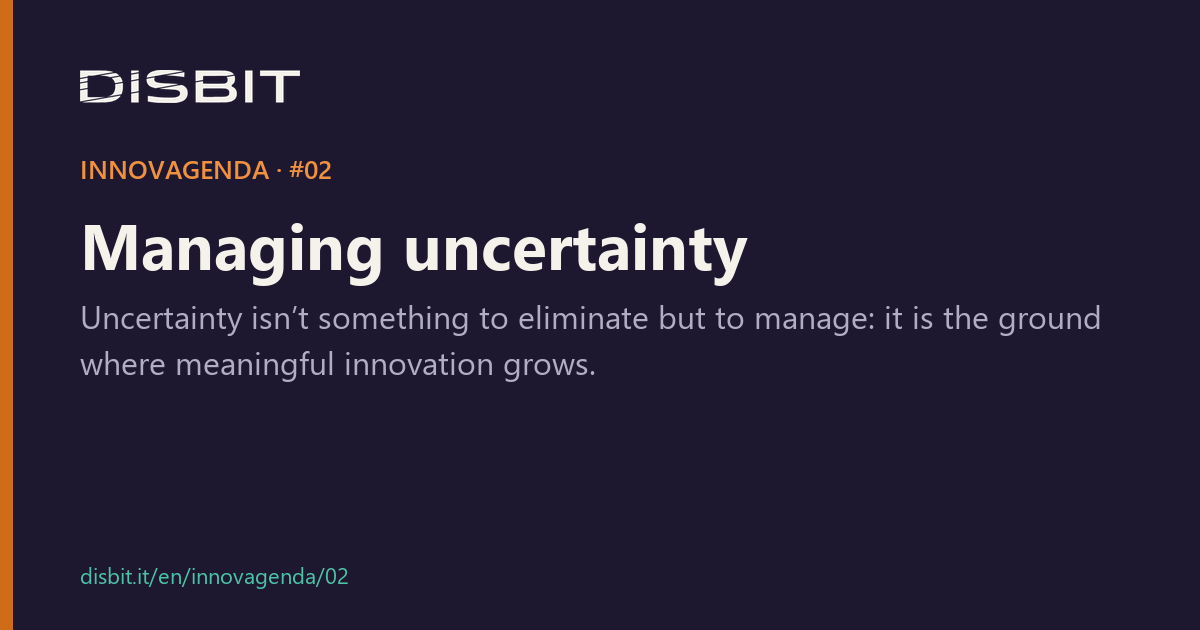
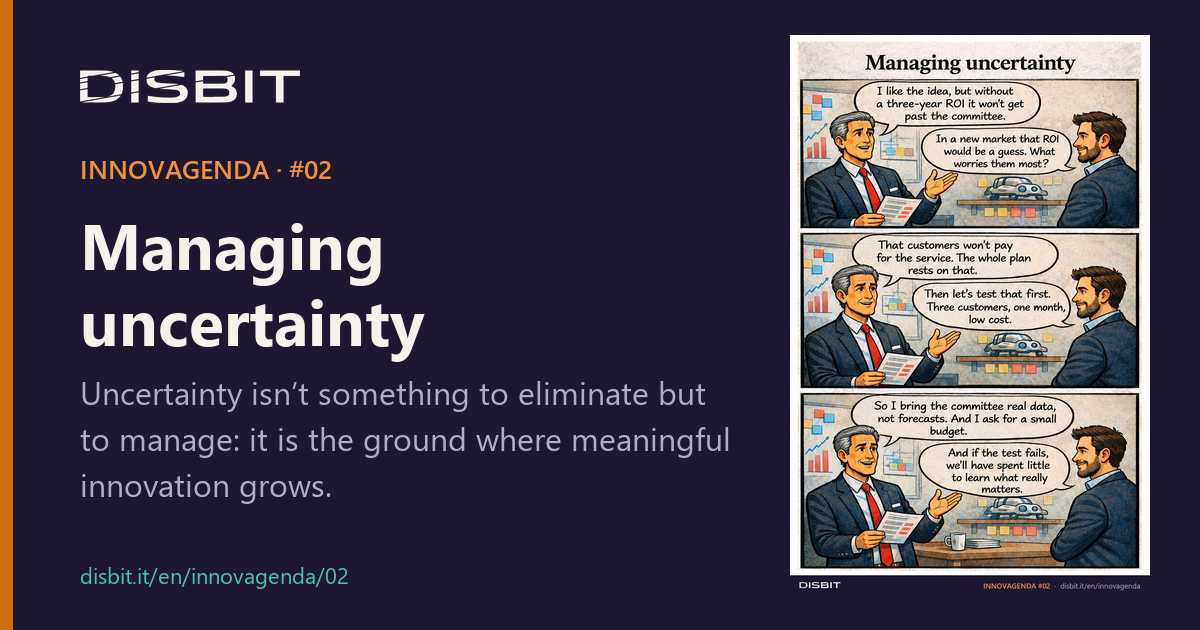
INNOVAGENDA inglese: 12 tavole firmate, anteprime sulle card e pagine aggiornate

Changed region(s): [[0.0617, 0.0302, 0.9558, 0.9349], [0.3392, 0.3619, 0.6167, 0.4524], [0.0617, 0.754, 0.2775, 0.8143]]

diff --git a/en/index.html b/en/index.html
@@ -358,6 +358,10 @@ main p b{font-weight:700;color:var(--ink)}
 .phase{grid-row:span 4}
 .phase h3.word{font-size:clamp(23px,2.2vw,29px);font-weight:800;margin:0 0 6px;letter-spacing:-.02em;line-height:1.1}
 .phase h3.word .ini{color:var(--orange);font-size:1.55em;line-height:.9;letter-spacing:-.03em}
+/* anteprima a fumetti nelle card INNOVAGENDA */
+.principle{overflow:hidden}
+.principle .pthumb{display:block;width:calc(100% + 36px);max-width:none;margin:-18px -18px 14px;aspect-ratio:640/278;height:auto;object-fit:cover;border-bottom:1px solid var(--line);transition:transform .3s}
+.principle:hover .pthumb,.principle:focus-visible .pthumb{transform:scale(1.03)}
 /* CONTATTI */
 .contact{background:var(--hero-bg);color:var(--hero-ink)}
 .contact .wrap{display:grid;grid-template-columns:1fr 1fr;gap:56px;align-items:start}
@@ -611,18 +615,18 @@ footer a{color:var(--hero-muted)}
       <p>12 principles for the strategic management of innovation, inspired by the ISO 56000 series. Not a checklist, but the management lens the DISBIT method applies to processes.</p>
     </div>
     <div class="principles">
-        <button class="principle" type="button" data-i="0" data-strip="/assets/innovagenda/en/DISBIT-INNOVAGENDA-01-value-realization.jpg"><span class="n">#01</span><h3>Value realization</h3><p>Value doesn’t come from the idea, but from putting it into practice.</p><span class="more">Read more →</span></button>
-        <button class="principle" type="button" data-i="1" data-strip="/assets/innovagenda/en/DISBIT-INNOVAGENDA-02-managing-uncertainty.jpg"><span class="n">#02</span><h3>Managing uncertainty</h3><p>Uncertainty isn’t something to eliminate but to manage: it is the ground where meaningful innovation grows.</p><span class="more">Read more →</span></button>
-        <button class="principle" type="button" data-i="2" data-strip="/assets/innovagenda/en/DISBIT-INNOVAGENDA-03-strategic-direction.jpg"><span class="n">#03</span><h3>Strategic direction</h3><p>Without strategic direction, innovation becomes scattered effort instead of a competitive lever.</p><span class="more">Read more →</span></button>
-        <button class="principle" type="button" data-i="3" data-strip="/assets/innovagenda/en/DISBIT-INNOVAGENDA-04-systems-approach.jpg"><span class="n">#04</span><h3>Systems approach</h3><p>Innovation becomes a real capability only when it stops being occasional.</p><span class="more">Read more →</span></button>
-        <button class="principle extra" type="button" data-i="4" data-strip="/assets/innovagenda/en/DISBIT-INNOVAGENDA-05-future-focused-leadership.jpg"><span class="n">#05</span><h3>Future-focused leadership</h3><p>Leadership doesn’t just protect stability: it sets the direction of change.</p><span class="more">Read more →</span></button>
-        <button class="principle extra" type="button" data-i="5" data-strip="/assets/innovagenda/en/DISBIT-INNOVAGENDA-06-innovation-culture.jpg"><span class="n">#06</span><h3>Innovation culture</h3><p>Culture decides what you are allowed to do when you innovate.</p><span class="more">Read more →</span></button>
-        <button class="principle extra" type="button" data-i="6" data-strip="/assets/innovagenda/en/DISBIT-INNOVAGENDA-07-exploiting-insights.jpg"><span class="n">#07</span><h3>Exploiting insights</h3><p>Insights turn information into choices: without them, you innovate blind.</p><span class="more">Read more →</span></button>
-        <button class="principle extra" type="button" data-i="7" data-strip="/assets/innovagenda/en/DISBIT-INNOVAGENDA-08-adaptability.jpg"><span class="n">#08</span><h3>Adaptability</h3><p>Adaptability is a designed capability, not an improvised reaction.</p><span class="more">Read more →</span></button>
-        <button class="principle extra" type="button" data-i="8" data-strip="/assets/innovagenda/en/DISBIT-INNOVAGENDA-09-open-innovation.jpg"><span class="n">#09</span><h3>Open innovation</h3><p>The ecosystem speeds up what the organization, on its own, tends to slow down.</p><span class="more">Read more →</span></button>
-        <button class="principle extra" type="button" data-i="9" data-strip="/assets/innovagenda/en/DISBIT-INNOVAGENDA-10-knowledge-management.jpg"><span class="n">#10</span><h3>Knowledge management</h3><p>Knowledge becomes an advantage only when it is collective memory, not individual know-how.</p><span class="more">Read more →</span></button>
-        <button class="principle extra" type="button" data-i="10" data-strip="/assets/innovagenda/en/DISBIT-INNOVAGENDA-11-performance-assessment.jpg"><span class="n">#11</span><h3>Performance assessment</h3><p>Measuring well isn’t control: it is steering learning and direction.</p><span class="more">Read more →</span></button>
-        <button class="principle extra" type="button" data-i="11" data-strip="/assets/innovagenda/en/DISBIT-INNOVAGENDA-12-integrity-and-social-responsibility.jpg"><span class="n">#12</span><h3>Integrity and social responsibility</h3><p>Integrity isn’t an afterthought: it is responsible design from the start.</p><span class="more">Read more →</span></button>
+        <button class="principle" type="button" data-i="0" data-strip="/assets/innovagenda/en/DISBIT-INNOVAGENDA-01-value-realization.jpg"><img class="pthumb" src="/assets/innovagenda/en/thumb/01.jpg" alt="" width="640" height="278" loading="lazy"><span class="n">#01</span><h3>Value realization</h3><p>Value doesn’t come from the idea, but from putting it into practice.</p><span class="more">Read more →</span></button>
+        <button class="principle" type="button" data-i="1" data-strip="/assets/innovagenda/en/DISBIT-INNOVAGENDA-02-managing-uncertainty.jpg"><img class="pthumb" src="/assets/innovagenda/en/thumb/02.jpg" alt="" width="640" height="278" loading="lazy"><span class="n">#02</span><h3>Managing uncertainty</h3><p>Uncertainty isn’t something to eliminate but to manage: it is the ground where meaningful innovation grows.</p><span class="more">Read more →</span></button>
+        <button class="principle" type="button" data-i="2" data-strip="/assets/innovagenda/en/DISBIT-INNOVAGENDA-03-strategic-direction.jpg"><img class="pthumb" src="/assets/innovagenda/en/thumb/03.jpg" alt="" width="640" height="278" loading="lazy"><span class="n">#03</span><h3>Strategic direction</h3><p>Without strategic direction, innovation becomes scattered effort instead of a competitive lever.</p><span class="more">Read more →</span></button>
+        <button class="principle" type="button" data-i="3" data-strip="/assets/innovagenda/en/DISBIT-INNOVAGENDA-04-systems-approach.jpg"><img class="pthumb" src="/assets/innovagenda/en/thumb/04.jpg" alt="" width="640" height="278" loading="lazy"><span class="n">#04</span><h3>Systems approach</h3><p>Innovation becomes a real capability only when it stops being occasional.</p><span class="more">Read more →</span></button>
+        <button class="principle extra" type="button" data-i="4" data-strip="/assets/innovagenda/en/DISBIT-INNOVAGENDA-05-future-focused-leadership.jpg"><img class="pthumb" src="/assets/innovagenda/en/thumb/05.jpg" alt="" width="640" height="278" loading="lazy"><span class="n">#05</span><h3>Future-focused leadership</h3><p>Leadership doesn’t just protect stability: it sets the direction of change.</p><span class="more">Read more →</span></button>
+        <button class="principle extra" type="button" data-i="5" data-strip="/assets/innovagenda/en/DISBIT-INNOVAGENDA-06-innovation-culture.jpg"><img class="pthumb" src="/assets/innovagenda/en/thumb/06.jpg" alt="" width="640" height="278" loading="lazy"><span class="n">#06</span><h3>Innovation culture</h3><p>Culture decides what you are allowed to do when you innovate.</p><span class="more">Read more →</span></button>
+        <button class="principle extra" type="button" data-i="6" data-strip="/assets/innovagenda/en/DISBIT-INNOVAGENDA-07-exploiting-insights.jpg"><img class="pthumb" src="/assets/innovagenda/en/thumb/07.jpg" alt="" width="640" height="278" loading="lazy"><span class="n">#07</span><h3>Exploiting insights</h3><p>Insights turn information into choices: without them, you innovate blind.</p><span class="more">Read more →</span></button>
+        <button class="principle extra" type="button" data-i="7" data-strip="/assets/innovagenda/en/DISBIT-INNOVAGENDA-08-adaptability.jpg"><img class="pthumb" src="/assets/innovagenda/en/thumb/08.jpg" alt="" width="640" height="278" loading="lazy"><span class="n">#08</span><h3>Adaptability</h3><p>Adaptability is a designed capability, not an improvised reaction.</p><span class="more">Read more →</span></button>
+        <button class="principle extra" type="button" data-i="8" data-strip="/assets/innovagenda/en/DISBIT-INNOVAGENDA-09-open-innovation.jpg"><img class="pthumb" src="/assets/innovagenda/en/thumb/09.jpg" alt="" width="640" height="278" loading="lazy"><span class="n">#09</span><h3>Open innovation</h3><p>The ecosystem speeds up what the organization, on its own, tends to slow down.</p><span class="more">Read more →</span></button>
+        <button class="principle extra" type="button" data-i="9" data-strip="/assets/innovagenda/en/DISBIT-INNOVAGENDA-10-knowledge-management.jpg"><img class="pthumb" src="/assets/innovagenda/en/thumb/10.jpg" alt="" width="640" height="278" loading="lazy"><span class="n">#10</span><h3>Knowledge management</h3><p>Knowledge becomes an advantage only when it is collective memory, not individual know-how.</p><span class="more">Read more →</span></button>
+        <button class="principle extra" type="button" data-i="10" data-strip="/assets/innovagenda/en/DISBIT-INNOVAGENDA-11-performance-assessment.jpg"><img class="pthumb" src="/assets/innovagenda/en/thumb/11.jpg" alt="" width="640" height="278" loading="lazy"><span class="n">#11</span><h3>Performance assessment</h3><p>Measuring well isn’t control: it is steering learning and direction.</p><span class="more">Read more →</span></button>
+        <button class="principle extra" type="button" data-i="11" data-strip="/assets/innovagenda/en/DISBIT-INNOVAGENDA-12-integrity-and-social-responsibility.jpg"><img class="pthumb" src="/assets/innovagenda/en/thumb/12.jpg" alt="" width="640" height="278" loading="lazy"><span class="n">#12</span><h3>Integrity and social responsibility</h3><p>Integrity isn’t an afterthought: it is responsible design from the start.</p><span class="more">Read more →</span></button>
     </div>
     <a class="btn btn-outline" href="/en/innovagenda/">See all 12 principles →</a>
     <p class="closing">Innovation doesn’t fail for lack of ideas, but for lack of governance.</p>

diff --git a/en/innovagenda/10/index.html b/en/innovagenda/10/index.html
@@ -82,7 +82,7 @@ footer{border-top:1px solid var(--line);padding:24px 0;font-size:13px;color:var(
 <h1>Knowledge management</h1>
 <p class="claim">Knowledge becomes an advantage only when it is collective memory, not individual know-how.</p>
 <p class="by">by Ilario Tornese · Certified Innovation Manager (UNI 11814)</p>
-
+<figure><img src="/assets/innovagenda/en/DISBIT-INNOVAGENDA-10-knowledge-management.jpg" alt="INNOVAGENDA comic strip #10: Knowledge management" width="840" height="1306"></figure>
 <section class="part"><h2>The principle</h2><p>Knowledge is an asset of the organization: what is in people’s heads and what is written down in data and procedures. Managing it means capturing it, preserving it and making it available to those who have to decide, when they need it.</p></section><section class="part"><h2>The most common mistake</h2><p>It is taken for granted that experts will stay forever, or that know-how will pass by word of mouth from one colleague to the next. So expertise remains personal property instead of becoming a company asset.</p></section><section class="part"><h2>How to recognize it</h2><p>When a key person leaves or a project closes, the knowledge leaves with them. Teams solve problems that were already solved and repeat mistakes already made: what is known as organizational amnesia.</p></section><section class="part"><h2>Where to start</h2><p>Start from the information that today can only be obtained by chasing people. In a complex service I managed, the status of every activity lived in files and in individual people’s memory: moving it onto a single system cut down the chasing and made every piece of information verifiable by everyone.</p></section>
 <p class="maxim">Knowledge becomes an advantage only when it is collective memory, not individual know-how.</p>
 <a class="share" href="https://www.linkedin.com/sharing/share-offsite/?url=https%3A%2F%2Fdisbit.it%2Fen%2Finnovagenda%2F10%2F" target="_blank" rel="noopener">Share on LinkedIn ↗</a>

diff --git a/en/innovagenda/02/index.html b/en/innovagenda/02/index.html
@@ -82,7 +82,7 @@ footer{border-top:1px solid var(--line);padding:24px 0;font-size:13px;color:var(
 <h1>Managing uncertainty</h1>
 <p class="claim">Uncertainty isn’t something to eliminate but to manage: it is the ground where meaningful innovation grows.</p>
 <p class="by">by Ilario Tornese · Certified Innovation Manager (UNI 11814)</p>
-
+<figure><img src="/assets/innovagenda/en/DISBIT-INNOVAGENDA-02-managing-uncertainty.jpg" alt="INNOVAGENDA comic strip #02: Managing uncertainty" width="840" height="1306"></figure>
 <section class="part"><h2>The principle</h2><p>When you innovate, information is missing: about the market, the technology, how people will react. That isn’t a flaw in the project, it is its nature. Managing uncertainty means turning assumptions into verified facts, one step at a time.</p></section><section class="part"><h2>The most common mistake</h2><p>A new idea is asked for the same certainty as a proven process: a three-year business plan, guaranteed ROI, no deviation from the plan. But risk can be calculated; uncertainty can’t. It only shrinks when you test.</p></section><section class="part"><h2>How to recognize it</h2><p>The portfolio holds only incremental improvements, because they are the only ones that get past the committee. The boldest ideas are dropped at the first hitch. Stopped projects are filed as losses, and nobody draws a lesson from them.</p></section><section class="part"><h2>Where to start</h2><p>Replace the question “how much will it return?” with “what is our riskiest assumption, and how can we test it in a month without spending much?”.</p></section>
 <p class="maxim">Uncertainty isn’t something to eliminate but to manage: it is the ground where meaningful innovation grows.</p>
 <a class="share" href="https://www.linkedin.com/sharing/share-offsite/?url=https%3A%2F%2Fdisbit.it%2Fen%2Finnovagenda%2F02%2F" target="_blank" rel="noopener">Share on LinkedIn ↗</a>

diff --git a/en/innovagenda/01/index.html b/en/innovagenda/01/index.html
@@ -82,7 +82,7 @@ footer{border-top:1px solid var(--line);padding:24px 0;font-size:13px;color:var(
 <h1>Value realization</h1>
 <p class="claim">Value doesn’t come from the idea, but from putting it into practice.</p>
 <p class="by">by Ilario Tornese · Certified Innovation Manager (UNI 11814)</p>
-
+<figure><img src="/assets/innovagenda/en/DISBIT-INNOVAGENDA-01-value-realization.jpg" alt="INNOVAGENDA comic strip #01: Value realization" width="840" height="1306"></figure>
 <section class="part"><h2>The principle</h2><p>An innovation only exists when someone uses it and gets a benefit from it. Until then it is an idea, a prototype, at most a promise. The value can be financial, but also time saved, a better service, one risk less: what matters is that the people receiving it recognize it.</p></section><section class="part"><h2>The most common mistake</h2><p>Innovation is measured by how many ideas are produced. Brainstorming sessions, hackathons, prototypes: all useful, but if nobody asks who will adopt the solution, when and with what resources, the energy stops halfway.</p></section><section class="part"><h2>How to recognize it</h2><p>A drawer full of successful proofs of concept that never reached production. Teams enthusiastic at the first pilot and disillusioned by the third. Money spent that nobody can link to a result.</p></section><section class="part"><h2>Where to start</h2><p>For every initiative, one question before you even start: who will use it, from when, and how will we know it has worked?</p></section>
 <p class="maxim">Without a path to adoption, innovation remains a sterile exercise: value doesn’t come from the idea, but from putting it into practice.</p>
 <a class="share" href="https://www.linkedin.com/sharing/share-offsite/?url=https%3A%2F%2Fdisbit.it%2Fen%2Finnovagenda%2F01%2F" target="_blank" rel="noopener">Share on LinkedIn ↗</a>

diff --git a/en/innovagenda/12/index.html b/en/innovagenda/12/index.html
@@ -82,7 +82,7 @@ footer{border-top:1px solid var(--line);padding:24px 0;font-size:13px;color:var(
 <h1>Integrity and social responsibility</h1>
 <p class="claim">Integrity isn’t an afterthought: it is responsible design from the start.</p>
 <p class="by">by Ilario Tornese · Certified Innovation Manager (UNI 11814)</p>
-
+<figure><img src="/assets/innovagenda/en/DISBIT-INNOVAGENDA-12-integrity-and-social-responsibility.jpg" alt="INNOVAGENDA comic strip #12: Integrity and social responsibility" width="840" height="1306"></figure>
 <section class="part"><h2>The principle</h2><p>An innovation is never neutral. Every new or changed entity has effects on people, the environment and society, and integrity asks you to consider them from the design stage, not afterwards.</p></section><section class="part"><h2>The most common mistake</h2><p>Innovation is judged only on profitability and competitive advantage, and social responsibility is left to marketing or communications. Ethics becomes a cost to contain instead of a design criterion.</p></section><section class="part"><h2>How to recognize it</h2><p>Effective but fragile solutions with unforeseen effects: environmental impacts, privacy problems, reputational crises. More wary partners and investors. Talented people choosing to work elsewhere.</p></section><section class="part"><h2>Where to start</h2><p>Add a fixed question to project reviews: who could be harmed by this solution, and what can we change now so that it doesn’t happen? Integrity works like a purifier built into the plant, not added downstream.</p></section>
 <p class="maxim">Integrity isn’t an afterthought: it is responsible design from the start.</p>
 <a class="share" href="https://www.linkedin.com/sharing/share-offsite/?url=https%3A%2F%2Fdisbit.it%2Fen%2Finnovagenda%2F12%2F" target="_blank" rel="noopener">Share on LinkedIn ↗</a>

diff --git a/en/innovagenda/09/index.html b/en/innovagenda/09/index.html
@@ -82,7 +82,7 @@ footer{border-top:1px solid var(--line);padding:24px 0;font-size:13px;color:var(
 <h1>Open innovation</h1>
 <p class="claim">The ecosystem speeds up what the organization, on its own, tends to slow down.</p>
 <p class="by">by Ilario Tornese · Certified Innovation Manager (UNI 11814)</p>
-
+<figure><img src="/assets/innovagenda/en/DISBIT-INNOVAGENDA-09-open-innovation.jpg" alt="INNOVAGENDA comic strip #09: Open innovation" width="840" height="1306"></figure>
 <section class="part"><h2>The principle</h2><p>Not all the ideas and skills you need are inside the company. Open innovation deliberately manages the knowledge that flows in and out: universities, startups, suppliers, clients. The company stops being a fortress that must produce every idea within its own walls and becomes a network in constant exchange with the outside.</p></section><section class="part"><h2>The most common mistake</h2><p>Collaboration is seen as a threat to intellectual property, or reduced to buying services. But buying consulting is not co-creating: the two-way exchange is missing.</p></section><section class="part"><h2>How to recognize it</h2><p>Teams building from scratch what already exists outside. Long times to market. Internal skills and patents left in a drawer instead of creating value outside too.</p></section><section class="part"><h2>Where to start</h2><p>Map the partners the company works with today and ask, for each one, what we have learned from them in the last year. If the answer is “nothing”, it is just supply.</p></section>
 <p class="maxim">The ecosystem speeds up what the organization, on its own, tends to slow down.</p>
 <a class="share" href="https://www.linkedin.com/sharing/share-offsite/?url=https%3A%2F%2Fdisbit.it%2Fen%2Finnovagenda%2F09%2F" target="_blank" rel="noopener">Share on LinkedIn ↗</a>

diff --git a/en/innovagenda/07/index.html b/en/innovagenda/07/index.html
@@ -82,7 +82,7 @@ footer{border-top:1px solid var(--line);padding:24px 0;font-size:13px;color:var(
 <h1>Exploiting insights</h1>
 <p class="claim">Insights turn information into choices: without them, you innovate blind.</p>
 <p class="by">by Ilario Tornese · Certified Innovation Manager (UNI 11814)</p>
-
+<figure><img src="/assets/innovagenda/en/DISBIT-INNOVAGENDA-07-exploiting-insights.jpg" alt="INNOVAGENDA comic strip #07: Exploiting insights" width="840" height="1306"></figure>
 <section class="part"><h2>The principle</h2><p>An insight is not a piece of data. It is a deep understanding of a need, often unspoken, that opens up an opportunity. It comes from connecting different sources (clients, frontline staff, the market, trends) and looking beyond explicit requests.</p></section><section class="part"><h2>The most common mistake</h2><p>The amount of data is mistaken for knowledge. Internal history and current clients’ requests get analysed, and the weak signals that anticipate change are missed.</p></section><section class="part"><h2>How to recognize it</h2><p>Ideas that are hardly distinctive and easy to copy. Difficulty choosing which projects to back, because there is no shared base of evidence. Products and processes that reach the market already outdated.</p></section><section class="part"><h2>Where to start</h2><p>Before designing any solution, spend time where the problem happens: in the warehouse, at the counter, next to the people who actually use the process. Many insights are there, not in the reports.</p></section>
 <p class="maxim">Insights turn information into choices: without them, you innovate “blind”.</p>
 <a class="share" href="https://www.linkedin.com/sharing/share-offsite/?url=https%3A%2F%2Fdisbit.it%2Fen%2Finnovagenda%2F07%2F" target="_blank" rel="noopener">Share on LinkedIn ↗</a>

diff --git a/en/innovagenda/03/index.html b/en/innovagenda/03/index.html
@@ -82,7 +82,7 @@ footer{border-top:1px solid var(--line);padding:24px 0;font-size:13px;color:var(
 <h1>Strategic direction</h1>
 <p class="claim">Without strategic direction, innovation becomes scattered effort instead of a competitive lever.</p>
 <p class="by">by Ilario Tornese · Certified Innovation Manager (UNI 11814)</p>
-
+<figure><img src="/assets/innovagenda/en/DISBIT-INNOVAGENDA-03-strategic-direction.jpg" alt="INNOVAGENDA comic strip #03: Strategic direction" width="840" height="1306"></figure>
 <section class="part"><h2>The principle</h2><p>Innovation needs a direction: clear, shared objectives consistent with what the company wants to become. Strategy tells you where to invest and, above all, where not to.</p></section><section class="part"><h2>The most common mistake</h2><p>Innovation happens as a reaction: the technology of the moment, a request from a major client, a competitor’s announcement. Each initiative makes sense on its own, but nobody has decided which ones really matter.</p></section><section class="part"><h2>How to recognize it</h2><p>Many projects running in parallel, competing for the same people and the same budget. Different indicators for every initiative, so no comparison is possible. Islands of innovation that don’t change the way the company competes.</p></section><section class="part"><h2>Where to start</h2><p>Write down on one page the three objectives innovation must serve over the next two years, and ask every project which of the three it contributes to.</p></section>
 <p class="maxim">Without strategic direction, innovation becomes scattered effort instead of a competitive lever.</p>
 <a class="share" href="https://www.linkedin.com/sharing/share-offsite/?url=https%3A%2F%2Fdisbit.it%2Fen%2Finnovagenda%2F03%2F" target="_blank" rel="noopener">Share on LinkedIn ↗</a>

diff --git a/en/innovagenda/04/index.html b/en/innovagenda/04/index.html
@@ -82,7 +82,7 @@ footer{border-top:1px solid var(--line);padding:24px 0;font-size:13px;color:var(
 <h1>Systems approach</h1>
 <p class="claim">Innovation becomes a real capability only when it stops being occasional.</p>
 <p class="by">by Ilario Tornese · Certified Innovation Manager (UNI 11814)</p>
-
+<figure><img src="/assets/innovagenda/en/DISBIT-INNOVAGENDA-04-systems-approach.jpg" alt="INNOVAGENDA comic strip #04: Systems approach" width="840" height="1306"></figure>
 <section class="part"><h2>The principle</h2><p>Innovation is neither a department nor an event. It is the result of strategy, culture, processes and resources pulling in the same direction: if one of them goes its own way, it holds back all the others.</p></section><section class="part"><h2>The most common mistake</h2><p>Innovation is handed to a dedicated team, a lab or a single technical department, and the rest of the company is expected to follow. But what is born in isolation tends to stay isolated.</p></section><section class="part"><h2>How to recognize it</h2><p>Pilot projects that work and don’t scale. Successes that depend on one brilliant person and vanish when that person changes role. Recurring bottlenecks between functions, and lessons learned that stay locked inside a single project.</p></section><section class="part"><h2>Where to start</h2><p>Take the last innovation project and work out who had to say yes for it to move forward: procurement, IT, legal, operations. That is where you see where the system holds and where it jams.</p></section>
 <p class="maxim">Innovation becomes a real capability only when it stops being occasional.</p>
 <a class="share" href="https://www.linkedin.com/sharing/share-offsite/?url=https%3A%2F%2Fdisbit.it%2Fen%2Finnovagenda%2F04%2F" target="_blank" rel="noopener">Share on LinkedIn ↗</a>

diff --git a/en/innovagenda/11/index.html b/en/innovagenda/11/index.html
@@ -82,7 +82,7 @@ footer{border-top:1px solid var(--line);padding:24px 0;font-size:13px;color:var(
 <h1>Performance assessment</h1>
 <p class="claim">Measuring well isn’t control: it is steering learning and direction.</p>
 <p class="by">by Ilario Tornese · Certified Innovation Manager (UNI 11814)</p>
-
+<figure><img src="/assets/innovagenda/en/DISBIT-INNOVAGENDA-11-performance-assessment.jpg" alt="INNOVAGENDA comic strip #11: Performance assessment" width="840" height="1306"></figure>
 <section class="part"><h2>The principle</h2><p>Measuring tells you whether initiatives are creating value and lets you correct course while under way. In innovation this matters even more, because the path is never linear.</p></section><section class="part"><h2>The most common mistake</h2><p>Innovation is judged with the same indicators as stable processes, looking only at the final result. But in the early stages progress is measured in tested assumptions and reduced uncertainty, not in revenue.</p></section><section class="part"><h2>How to recognize it</h2><p>Projects with no prospects kept alive by inertia, and promising ones closed too early. Lessons nobody collects. Decisions based on impressions instead of data.</p></section><section class="part"><h2>Where to start</h2><p>Alongside the result indicators, give every initiative two or three learning indicators. Without measures you sail like a ship without radar: all you can do is hope to avoid the obstacles.</p></section>
 <p class="maxim">Measuring well isn’t control: it is steering learning and direction.</p>
 <a class="share" href="https://www.linkedin.com/sharing/share-offsite/?url=https%3A%2F%2Fdisbit.it%2Fen%2Finnovagenda%2F11%2F" target="_blank" rel="noopener">Share on LinkedIn ↗</a>

diff --git a/en/innovagenda/05/index.html b/en/innovagenda/05/index.html
@@ -82,7 +82,7 @@ footer{border-top:1px solid var(--line);padding:24px 0;font-size:13px;color:var(
 <h1>Future-focused leadership</h1>
 <p class="claim">Leadership doesn’t just protect stability: it sets the direction of change.</p>
 <p class="by">by Ilario Tornese · Certified Innovation Manager (UNI 11814)</p>
-
+<figure><img src="/assets/innovagenda/en/DISBIT-INNOVAGENDA-05-future-focused-leadership.jpg" alt="INNOVAGENDA comic strip #05: Future-focused leadership" width="840" height="1306"></figure>
 <section class="part"><h2>The principle</h2><p>Leading an organization means holding two tasks together: running today well and preparing for tomorrow. It takes the curiosity to question what has always worked, and a vision that gives change a meaning.</p></section><section class="part"><h2>The most common mistake</h2><p>Attention narrows to efficiency and the quarterly result. Questioning a successful model looks like an unnecessary risk, and leadership ends up meaning control.</p></section><section class="part"><h2>How to recognize it</h2><p>The company reacts late to market changes. People experience every novelty as a disruption. And when a competitor changes the rules of the game, you realize you have no alternatives ready.</p></section><section class="part"><h2>Where to start</h2><p>Set aside a share of management time and budget for exploration, even a small one, and report on it as seriously as on everything else.</p></section>
 <p class="maxim">Leadership doesn’t just protect stability: it sets the direction of change.</p>
 <a class="share" href="https://www.linkedin.com/sharing/share-offsite/?url=https%3A%2F%2Fdisbit.it%2Fen%2Finnovagenda%2F05%2F" target="_blank" rel="noopener">Share on LinkedIn ↗</a>

diff --git a/en/innovagenda/06/index.html b/en/innovagenda/06/index.html
@@ -82,7 +82,7 @@ footer{border-top:1px solid var(--line);padding:24px 0;font-size:13px;color:var(
 <h1>Innovation culture</h1>
 <p class="claim">Culture decides what you are allowed to do when you innovate.</p>
 <p class="by">by Ilario Tornese · Certified Innovation Manager (UNI 11814)</p>
-
+<figure><img src="/assets/innovagenda/en/DISBIT-INNOVAGENDA-06-innovation-culture.jpg" alt="INNOVAGENDA comic strip #06: Innovation culture" width="840" height="1306"></figure>
 <section class="part"><h2>The principle</h2><p>Culture is everything a company rewards, tolerates and punishes. A culture of innovation lets the freedom to explore live alongside the rigor of those who have to deliver.</p></section><section class="part"><h2>The most common mistake</h2><p>Tools are bought, procedures introduced, someone is put in charge, and it is taken for granted that people will change how they behave. But if the system keeps rewarding only those who never make mistakes, nobody will take a risk.</p></section><section class="part"><h2>How to recognize it</h2><p>New tools only half adopted. Mistakes hidden instead of discussed. Functions that share information only when they are forced to. Routine becomes the safest place to be.</p></section><section class="part"><h2>Where to start</h2><p>Look at the last initiative that failed: who paid the price, and what did the company learn? The answer says more than any statement of values.</p></section>
 <p class="maxim">Culture decides what you are “allowed” to do when you innovate.</p>
 <a class="share" href="https://www.linkedin.com/sharing/share-offsite/?url=https%3A%2F%2Fdisbit.it%2Fen%2Finnovagenda%2F06%2F" target="_blank" rel="noopener">Share on LinkedIn ↗</a>
